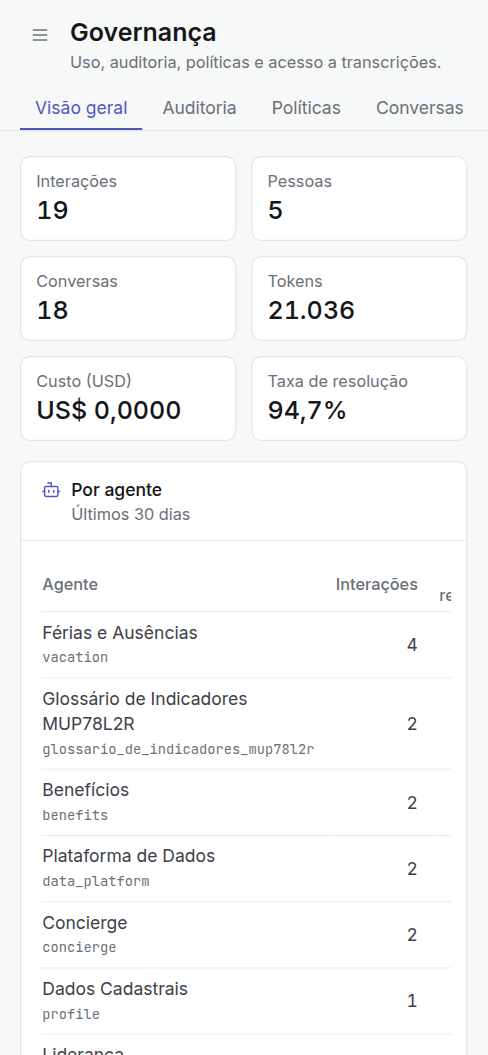
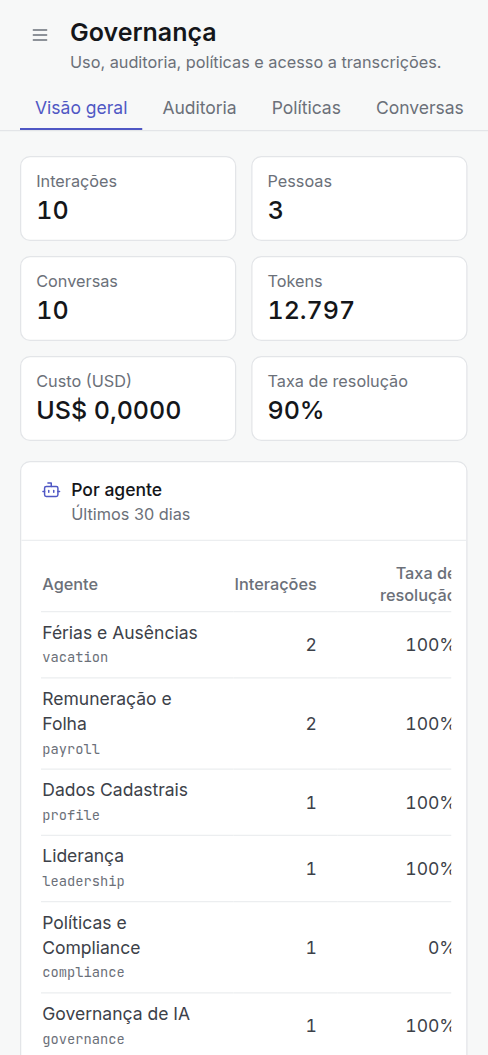
docs(screenshots): retake every app screen on a clean seed
Retaken on a fresh compose volume before any e2e run: no test agents in the
Studio or the console. Adds the round-3 screens (subject refusal, decision by
first name, next steps, governance in the chat, Studio metrics, dark editor).
The evaluation tab no longer tells a published version to go to review, and
the playground hint says which version it runs.

diff --git a/frontend/src/components/studio/Evaluation.tsx b/frontend/src/components/studio/Evaluation.tsx
@@ -17,11 +17,14 @@ export function Evaluation({
   agentId,
   stored,
   canRun,
+  draft,
   onResult,
 }: {
   agentId: string;
   stored: EvaluationResult | null;
   canRun: boolean;
+  /** Only a draft can still be sent to review; past that the gate result is a record. */
+  draft: boolean;
   onResult: (result: EvaluationResult) => void;
 }): JSX.Element {
   const [result, setResult] = useState<EvaluationResult | null>(stored);
@@ -71,7 +74,7 @@ export function Evaluation({
               )}
             >
               {t('evaluation.result', { passed: result.passed, total: result.total })} ·{' '}
-              {result.ok ? t('evaluation.gateOpen') : t('evaluation.gateClosed')}
+              {result.ok ? t(draft ? 'evaluation.gateOpen' : 'evaluation.gatePassed') : t('evaluation.gateClosed')}
             </p>
             <ul className="space-y-2">
               {result.results.map((row, i) => (

diff --git a/frontend/src/i18n/pt-BR.ts b/frontend/src/i18n/pt-BR.ts
@@ -526,13 +526,14 @@ export const ptBR = {
   'evaluation.pass': 'passou',
   'evaluation.fail': 'falhou',
   'evaluation.gateOpen': 'Avaliação aprovada: pode enviar para revisão.',
+  'evaluation.gatePassed': 'Avaliação aprovada antes da revisão desta versão.',
   'evaluation.gateClosed': 'A avaliação precisa passar antes do envio para revisão.',
   'evaluation.never': 'Ainda não avaliado nesta versão.',
   'evaluation.ranAt': 'Rodada em {date} (versão {version})',
   'evaluation.detail': 'Detalhe',
 
   'playground.hint':
-    'Conversa de teste com a versão em rascunho. Só o autor enxerga este agente aqui.',
+    'Conversa de teste com a versão mais recente deste agente, rascunho incluído. Só o autor enxerga o playground.',
   'playground.placeholder': 'Teste uma pergunta',
 
   'review.submit': 'Enviar para revisão',

diff --git a/frontend/src/pages/StudioAgentPage.tsx b/frontend/src/pages/StudioAgentPage.tsx
@@ -145,6 +145,7 @@ export function StudioAgentPage(): JSX.Element {
           agentId={agent.id}
           stored={latest.eval_result}
           canRun={editable}
+          draft={latest.status === 'draft'}
           onResult={() => transport.studioAgent(agent.id).then(apply)}
         />
       ) : null}

diff --git a/README.md b/README.md
@@ -144,8 +144,11 @@ and an HTTP adapter skeleton.
 | ![Landing: thesis, three pillars and phrases to try for each persona](docs/screenshots/login.png) | ![Reimbursement: limits and receipt upload card](docs/screenshots/chat-reimbursement.png) |
 | ![Vacation calendar with the best holiday bridges](docs/screenshots/chat-calendar.png) | ![Injection attempt blocked before any model, shown in red in the inside view](docs/screenshots/chat-inside-panel.png) |
 | ![Annual projection and PGBL, dark mode](docs/screenshots/chat-desktop-dark.png) | ![Payslip on a phone](docs/screenshots/chat-mobile.png) |
+| ![A manager asks for the team's payroll: refused by the governance policy, with whose data it was in the inside view](docs/screenshots/chat-subject.png) | ![A manager approves a request by first name: proposal awaiting confirmation](docs/screenshots/chat-decide.png) |
+| ![Nothing in the knowledge bases: questions it can answer in the same domain plus an HR ticket](docs/screenshots/chat-next-steps.png) | ![Governance in the chat: policies and guardrail counts, with a link to the console tab](docs/screenshots/chat-governance.png) |
 | ![Governance console](docs/screenshots/console-overview.png) | ![Hash-chained audit log](docs/screenshots/console-audit.png) |
 | ![Agent Studio evaluation gate](docs/screenshots/studio-evaluation.png) | ![Agent Studio playground](docs/screenshots/studio-playground.png) |
+| ![Agent Studio metrics: window, resolution count and feedback split](docs/screenshots/studio-metrics.png) | ![Agent Studio editor in dark mode](docs/screenshots/studio-config-dark.png) |
 | ![Static demo: sample receipt read as data, hidden instruction flagged, proposal awaiting confirmation](docs/screenshots/demo-desktop.png) | ![Static demo on a phone, compact privacy notice](docs/screenshots/demo-mobile.png) |
 
 ## Project layout
